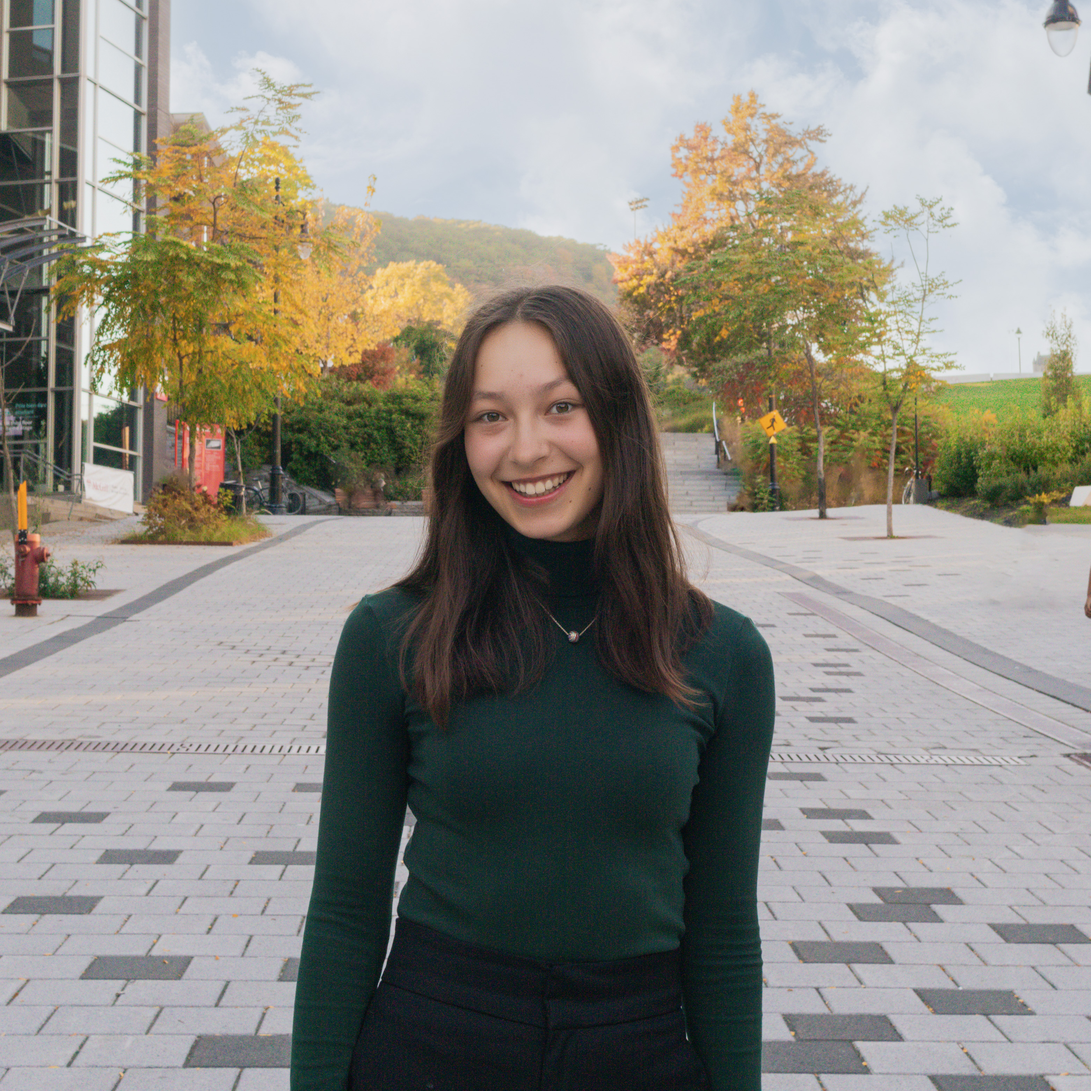
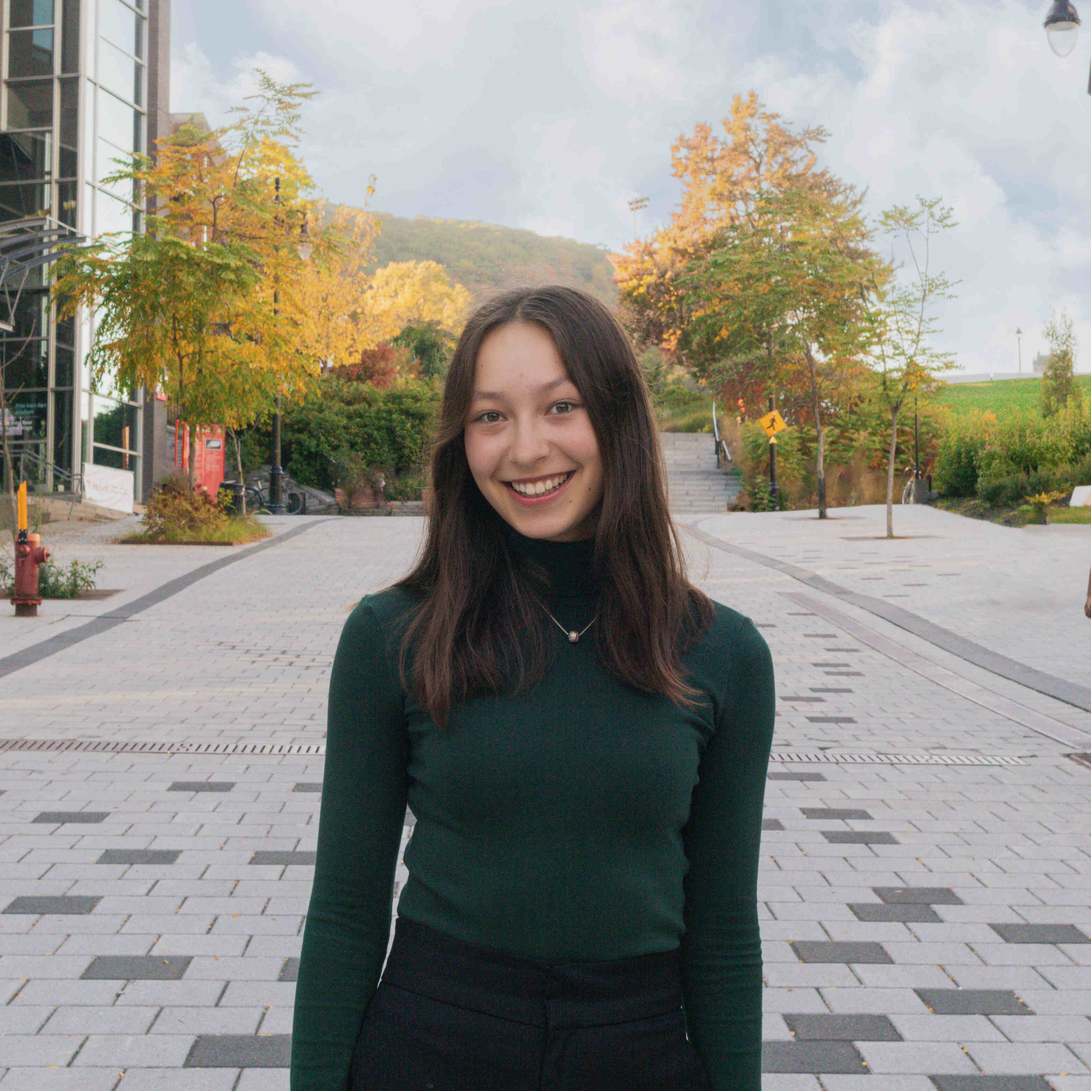
update image compression and fix broken image

Changed region(s): [[0.9007, 0.3417, 1.0, 0.4348], [0.0932, 0.2485, 0.1242, 0.2795]]

diff --git a/team.html b/team.html
@@ -247,7 +247,7 @@
             <div class="col-lg-3 col-sm-3 team-box">
                 <div class="team-member">
                     <figure class="profile-pic">
-                        <img src="images/2023/LauréanneLacasse.jpg" alt="Uploaded image" />
+                        <img src="images/2023/LaureanneLacasse.jpg" alt="Uploaded image" />
                     </figure>
                     <div class="member-details">
                         <h3 class="dark-text red-border-bottom">LAURÉANNE LACASSE</h3> 
